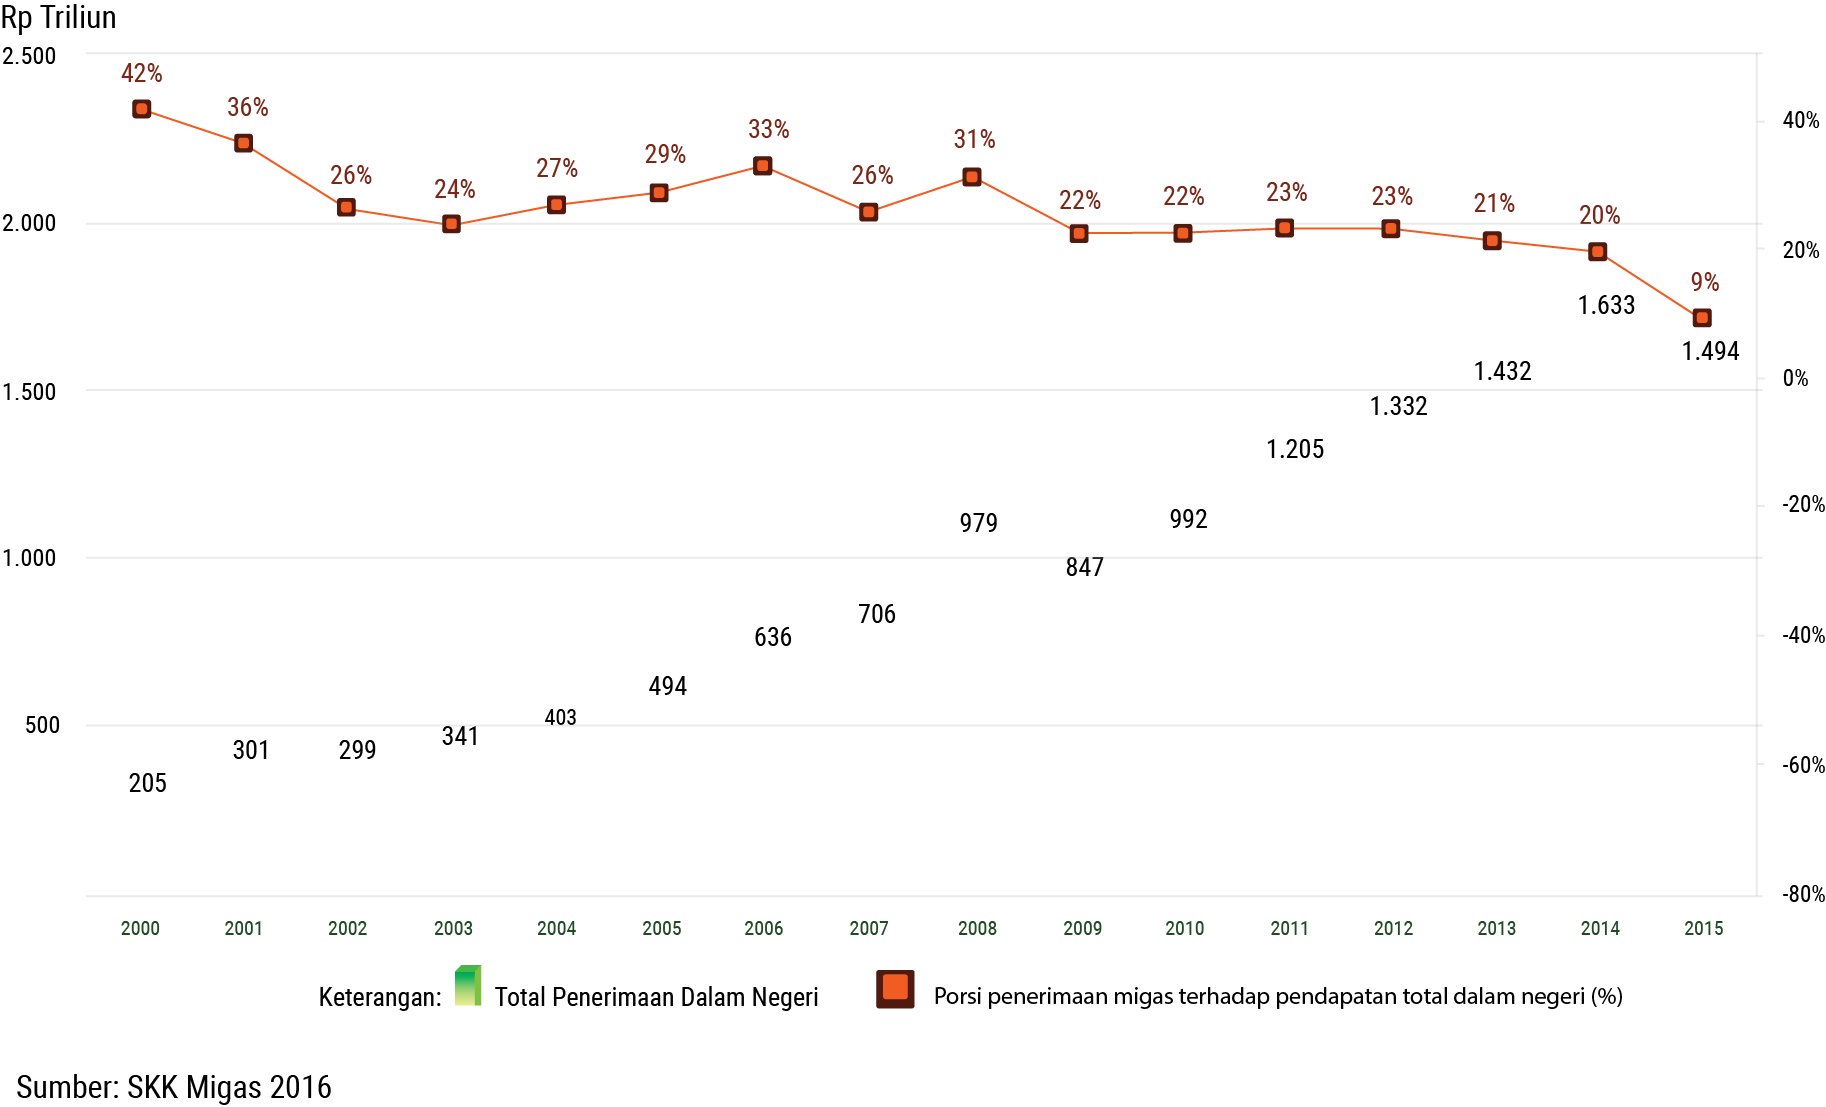
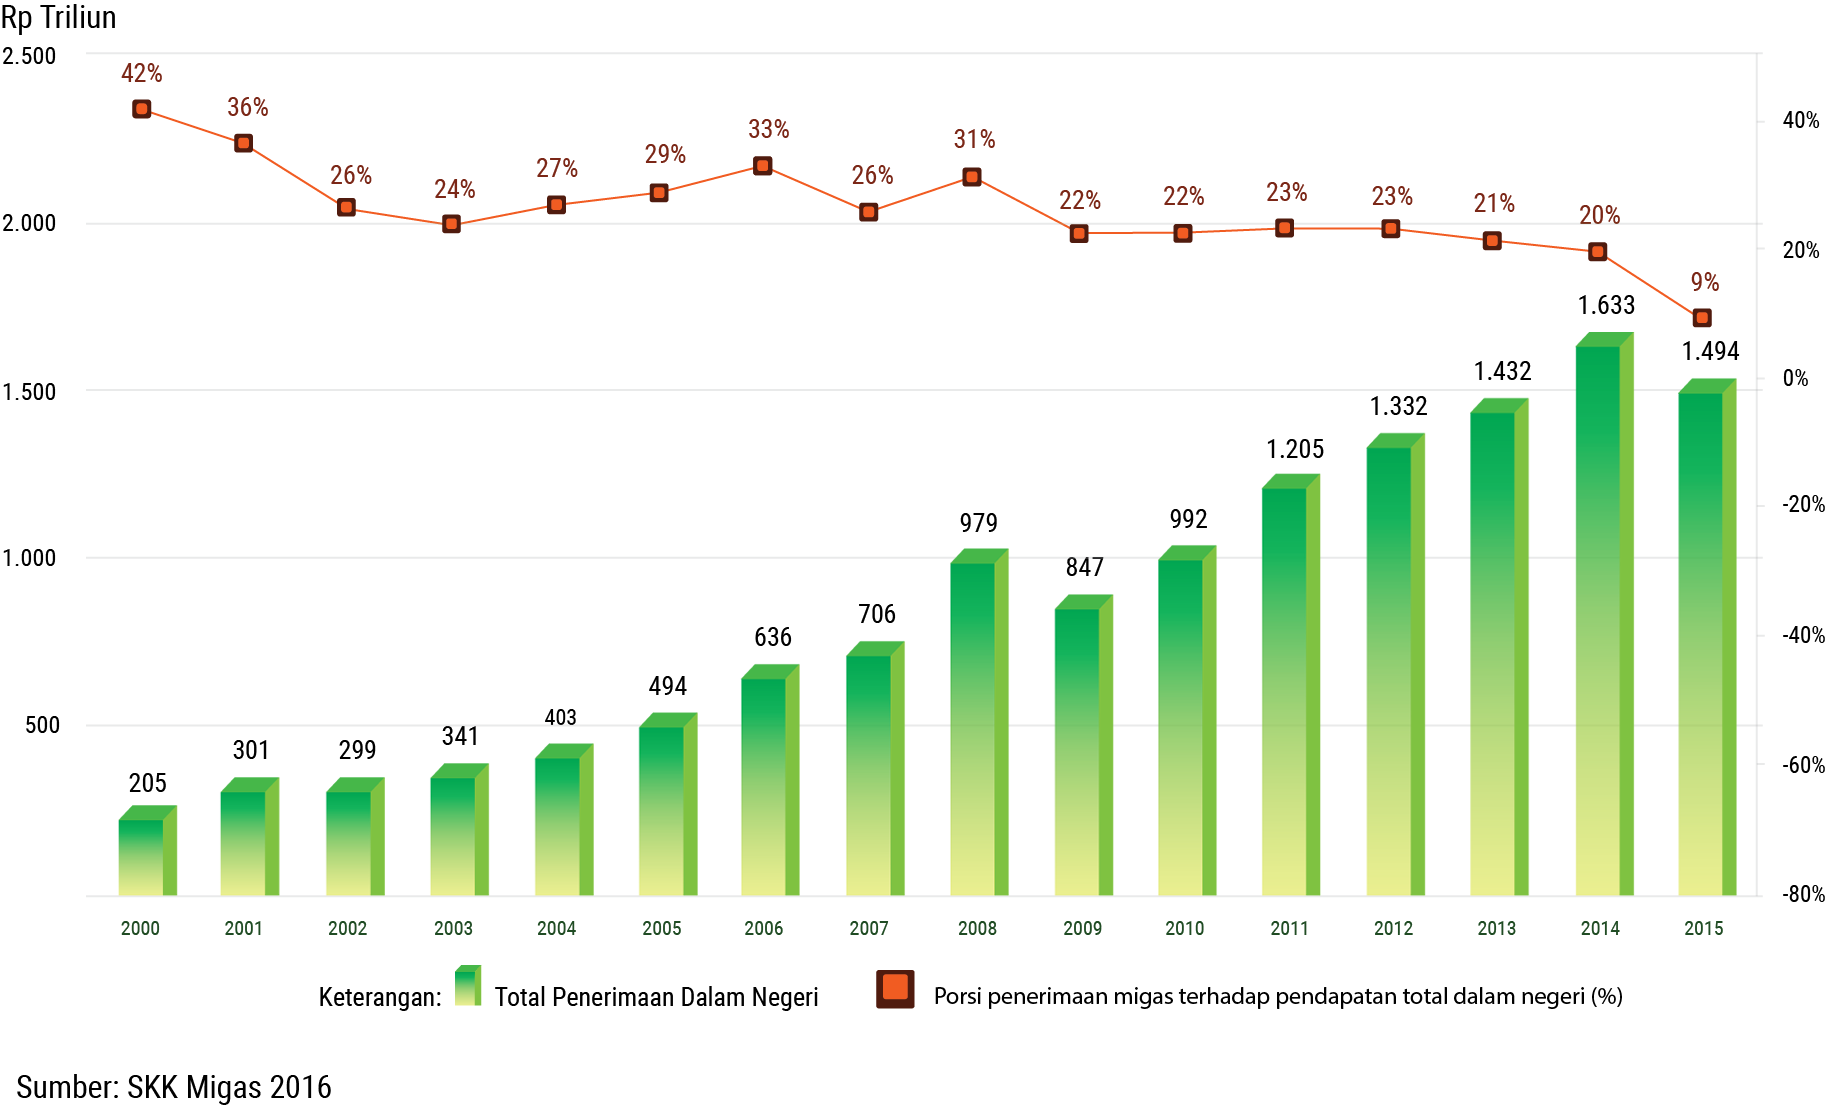
remove graph

Changed region(s): [[0.0624, 0.2764, 0.9677, 0.8293]]

diff --git a/index.html b/index.html
@@ -687,7 +687,7 @@
                 <h3><i>Kontribusi Terhadap APBN</i></h3>
                 <div class="graph-container">
                     <img src="img/scene_6/graph_num.png" alt="">
-                    <img src="img/scene_6/graph_bar.png" alt="">
+                    
                 </div>
                 
             </div>
